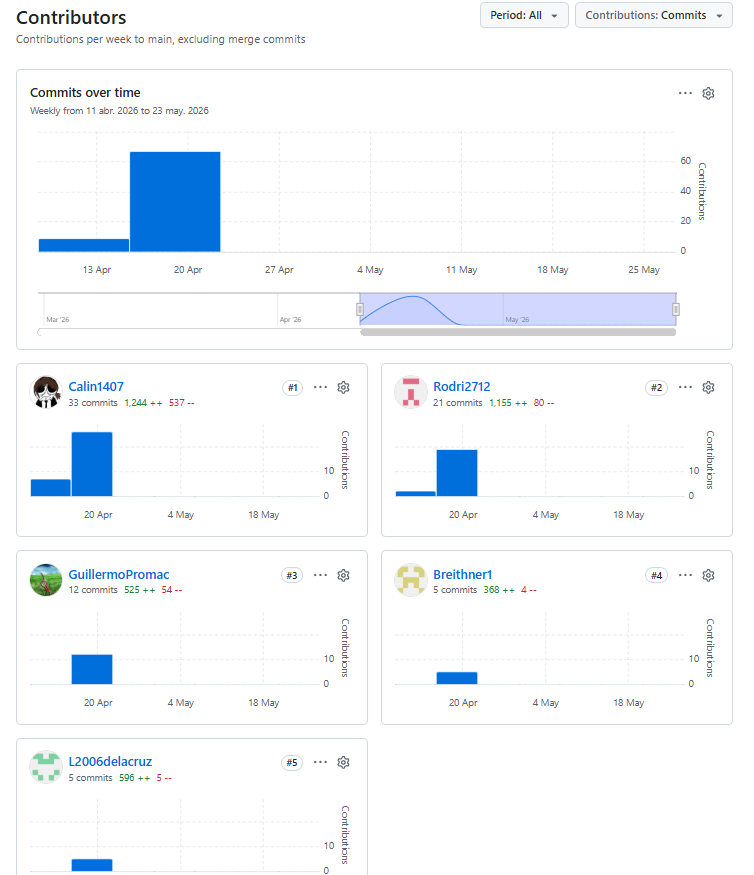
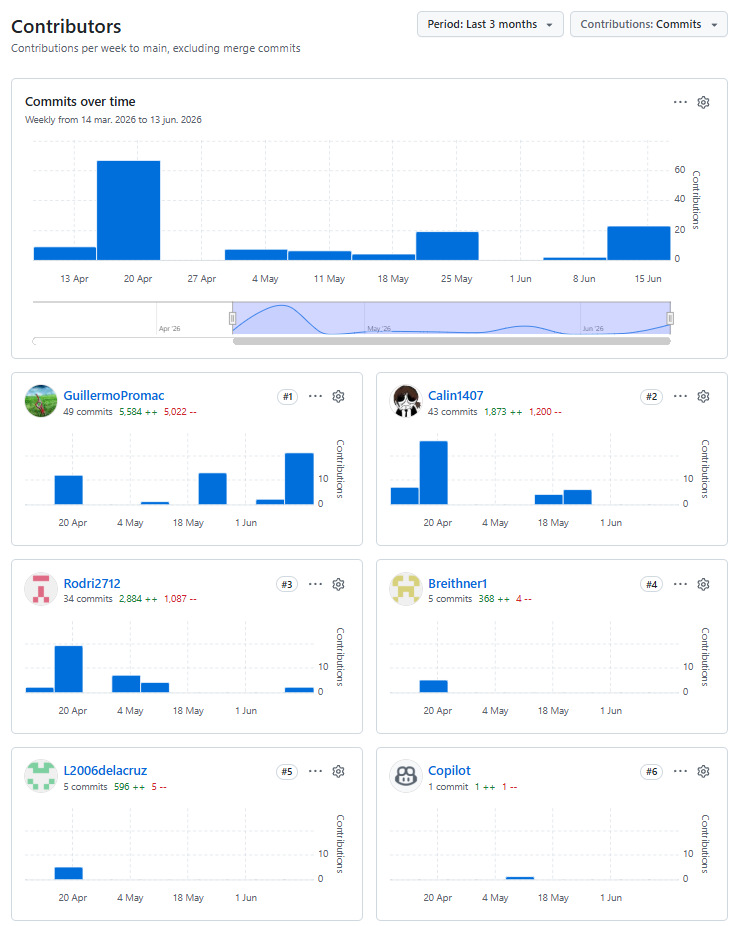
docs: add outcome av2.

diff --git a/README.md b/README.md
@@ -85,7 +85,7 @@
 
   <img src="assets/images/readme/Report-Ins.png" style="width: 450px;"/>
 
-  <p>Total de commits: 76</p>
+  <p>Total de commits: 136</p>
 
   <p>Autores contribuyentes:</p>
 
@@ -200,8 +200,7 @@
 
 ## Student Outcome 5
 
-<p>Criterio: La capacidad de funcionar efectivamente en un equipo cuyos miembros juntos proporcionan liderazgo, crean un entorno de colaboración e inclusivo, establecen objetivos, planifican tareas y cumplen objetivos.
-En el siguiente cuadro se describe las acciones realizadas y enunciados de conclusiones por parte del grupo, que permiten sustentar el haber alcanzado el logro del ABET – EAC - Student Outcome 5.</p>
+**Criterio:** Criterio: La capacidad de funcionar efectivamente en un equipo cuyos miembros juntos proporcionan liderazgo, crean un entorno de colaboración e inclusivo, establecen objetivos, planifican tareas y cumplen objetivos. En el siguiente cuadro se describe las acciones realizadas y enunciados de conclusiones por parte del grupo, que permiten sustentar el haber alcanzado el logro del ABET – EAC - Student Outcome 5.
 
 <table border="1" style="width: 100%; border-collapse: collapse;">
 <thead>
@@ -213,47 +212,48 @@ En el siguiente cuadro se describe las acciones realizadas y enunciados de concl
 </thead>
 <tbody>
     <tr>
-        <th style="padding: 30px;">Trabaja en equipo para proporcionar liderazgo enforma conjunta</th>
+        <th style="padding: 30px;">Trabaja en equipo para proporcionar liderazgo en forma conjunta</th>
         <th style="padding: 60px;">
-        Acuña de la Cruz, Luis Alfredo<br>Rol de developer, documentación de reuniones y configuraciones del software<br><br>
-        Aguilar Untiveros, Rodrigo Fabrizio<br>Rol de developer, colaboración en generación de stories y escenarios de usuarios<br><br>
-        Howard Robles, Guillermo Arturo<br>Rol de developer, análisis de competidores, needfinding y big picture event storming<br><br>
-        Perez Encarnacion, Breithner Rodolfo<br>Rol de developer, diseño UX de landing page y página web<br><br>
-        Retuerto Rodriguez, Jorge Manuel<br>Rol de product owner, descripción de producto y startup<br><br>
+            <strong>Retuerto Rodriguez, Jorge Manuel</strong><br>
+            <strong>TB1:</strong> Lideró el desarrollo de los módulos de IAM y Commercial Management en el frontend, implementando las vistas de autenticación (login, registro, recuperación de contraseña), la gestión de productos y pedidos, y la integración con los endpoints del backend. Coordinó la estructura de rutas y la lógica de estado global para estos módulos, asegurando la consistencia de la navegación y la experiencia de usuario.<br>
+            <strong>AV2:</strong> Lideró la implementación de la capa de infraestructura para IAM y Commercial en el backend, desarrollando los agregados <code>User</code>, <code>Product</code> y <code>Order</code>, los comandos y consultas correspondientes, y los controladores REST. Configuró la autenticación JWT y la autorización basada en roles, y aseguró la correcta integración con la base de datos mediante Entity Framework Core. Además, supervisó la implementación de los endpoints de pedidos y productos, validando la lógica de negocio y las reglas de integridad.<br><br>
+            <strong>Howard Robles, Guillermo Arturo</strong><br>
+            <strong>TB1:</strong> Lideró el desarrollo de los módulos de Monitoring y Analytics en el frontend, implementando el dashboard de monitoreo con indicadores en tiempo real, gráficos históricos, mapa de fertilidad y visualización de reportes analíticos. Integró las vistas de gestión de dispositivos y campos, y desarrolló los componentes para la selección de zonas y sensores, asegurando una experiencia fluida y responsiva.<br>
+            <strong>AV2:</strong> Lideró la implementación de los bounded contexts de Monitoring y Analytics en el backend, desarrollando los agregados <code>Field</code>, <code>Device</code> y <code>Report</code>, junto con sus value objects y comandos. Implementó los endpoints para la gestión de campos y dispositivos, y los filtros por tipo de suelo y estado. Además, desarrolló la lógica de generación de reportes estadísticos y aseguró la correcta persistencia de los datos en la base de datos, optimizando las consultas para el rendimiento.<br><br>
+            <strong>Perez Encarnacion, Breithner Rodolfo</strong><br>
+            <strong>TB1:</strong> Lideró el desarrollo de los módulos de Profile Management y Community Management en el frontend, implementando las vistas de gestión de perfiles agrícolas, la configuración de umbrales y la interacción con la comunidad (perfiles públicos, mural de comentarios y reseñas). Diseñó los componentes para la creación y edición de perfiles, y la visualización de calificaciones y comentarios de otros agricultores.<br>
+            <strong>AV2:</strong> Lideró la implementación de los bounded contexts de Profile y Community en el backend, desarrollando los agregados <code>Profile</code>, <code>CommunityProfile</code> y <code>Comment</code>, junto con sus value objects y comandos. Implementó los endpoints para la gestión de perfiles, comunidades y comentarios, incluyendo la lógica de reputación y visibilidad. Aseguró la integridad referencial entre los perfiles de usuario y los perfiles de comunidad, y validó las reglas de negocio para la publicación y moderación de comentarios.<br><br>
+            <strong>Aguilar Untiveros, Rodrigo Fabrizio</strong><br>
+            <strong>TB1:</strong> Lideró el desarrollo de los módulos de Notification Management y Stock Management en el frontend, implementando el sistema de notificaciones (lista de notificaciones, creación de alertas, marcado como leído) y la gestión de inventario de insumos (registro, edición, filtrado y descuento de productos). Desarrolló los componentes para la visualización de notificaciones en tiempo real y la integración con el panel de control.<br>
+            <strong>AV2:</strong> Lideró la implementación de los bounded contexts de Notification y Stock en el backend, desarrollando los agregados <code>Notification</code> e <code>Inventory</code>, junto con sus comandos y consultas. Implementó los endpoints para la creación, lectura y actualización de notificaciones, así como el marcado de leídas. También desarrolló la lógica de gestión de inventario, incluyendo la actualización de stock y la validación de cantidades. Aseguró la correcta persistencia de los datos y la integración con los módulos de perfil y monitoreo.<br><br>
         </th>
         <th style="padding: 30px;">
-        av1: Se definió la visión del producto y sus objetivos mediante la participación del Product Owner y el equipo de desarrollo.
-        Se elaboraron historias de usuario y escenarios, permitiendo establecer metas claras para el desarrollo.
-        Se realizó análisis de competidores y actividades de needfinding para comprender el problema y orientar las decisiones del equipo.
-        Se aplicó event storming para estructurar el flujo del sistema y alinear el entendimiento entre los integrantes.
-        Se diseñaron interfaces UX para la landing page y la aplicación, considerando la experiencia del usuario.
-        Se documentaron reuniones y acuerdos para asegurar la comunicación y seguimiento del progreso.
-        <br><br>
-        tb1: Durante el Sprint 2, el equipo consolidó un modelo de liderazgo compartido donde la toma de decisiones técnicas se realizó de forma conjunta. La capacidad de liderazgo se manifestó en la autogestión de los Bounded Contexts, asegurando que cada módulo funcional estuviera alineado con los objetivos del negocio y las metas del Sprint, garantizando una integración fluida entre los componentes desarrollados por cada miembro.  
+            <strong>av1:</strong> Se definió la visión del producto y sus objetivos mediante la participación del Product Owner y el equipo de desarrollo. Se elaboraron historias de usuario y escenarios, permitiendo establecer metas claras para el desarrollo. Se realizó análisis de competidores y actividades de needfinding para comprender el problema y orientar las decisiones del equipo. Se aplicó event storming para estructurar el flujo del sistema y alinear el entendimiento entre los integrantes. Se diseñaron interfaces UX para la landing page y la aplicación, considerando la experiencia del usuario. Se documentaron reuniones y acuerdos para asegurar la comunicación y seguimiento del progreso.<br><br>
+            <strong>tb1:</strong> Durante el Sprint 2, el equipo consolidó un modelo de liderazgo compartido donde la toma de decisiones técnicas se realizó de forma conjunta. La capacidad de liderazgo se manifestó en la autogestión de los Bounded Contexts, asegurando que cada módulo funcional estuviera alineado con los objetivos del negocio y las metas del Sprint, garantizando una integración fluida entre los componentes.<br><br>
+            <strong>AV2:</strong> El equipo consolidó un modelo de liderazgo distribuido donde cada líder de Bounded Context asumió la responsabilidad de coordinar tanto el frontend como el backend de su módulo, asegurando la coherencia técnica y funcional de la solución. La capacidad de liderazgo se manifestó en la organización de sprints internos, la asignación de tareas específicas y la resolución de conflictos técnicos, garantizando que cada módulo funcional estuviera alineado con los objetivos del negocio y las metas del hito AV2. Además, se promovió la colaboración entre líderes de diferentes módulos para resolver dependencias cruzadas, lo que permitió una integración fluida entre los componentes desarrollados por cada miembro.
         </th>
     </tr>
     <tr>
-        <th style="padding: 30px;">
-        Crea un entorno colaborativo e inclusivo, establece metas,planifica tareas y cumple objetivos
-        </th>
+        <th style="padding: 30px;">Crea un entorno colaborativo e inclusivo, establece metas, planifica tareas y cumple objetivos</th>
         <th style="padding: 60px;">
-        Acuña de la Cruz, Luis Alfredo<br>Trabajo siguiendo los 'conventional commits' y gitflow<br><br>
-        Aguilar Untiveros, Rodrigo Fabrizio<br>Cumplió de manera regular el uso de los 'conventional commits' y gitflow<br><br>
-        Howard Robles, Guillermo Arturo<br>Trabajo siguiendo los 'conventional commits' y gitflow<br><br>
-        Perez Encarnacion, Breithner Rodolfo<br>Trabajo siguiendo los 'conventional commits' y gitflow<br><br>
-        Retuerto Rodriguez, Jorge Manuel<br>Trabajo siguiendo los 'conventional commits' y gitflow<br><br>
+            <strong>Retuerto Rodriguez, Jorge Manuel</strong><br>
+            <strong>TB1:</strong> Trabajó siguiendo los 'conventional commits' y gitflow, participando activamente en las revisiones de código y asegurando la calidad del software. Actuó como enlace entre el equipo de frontend y backend para garantizar la correcta integración de los módulos de IAM y Comercial.<br>
+            <strong>AV2:</strong> Continuó aplicando las prácticas de conventional commits y gitflow, y supervisó la correcta integración de los endpoints de IAM y Comercial con el frontend, asegurando la coherencia de los datos y la seguridad de la autenticación.<br><br>
+            <strong>Howard Robles, Guillermo Arturo</strong><br>
+            <strong>TB1:</strong> Trabajó siguiendo los 'conventional commits' y gitflow, y colaboró en la documentación técnica y la integración continua. Fue responsable de la correcta conexión entre el dashboard de monitoreo y los endpoints de sensores y reportes, asegurando la coherencia de los datos mostrados en el frontend.<br>
+            <strong>AV2:</strong> Continuó aplicando las prácticas de conventional commits y gitflow, y supervisó la correcta integración de los endpoints de monitoreo y analíticas con el frontend, asegurando la precisión de los datos mostrados en el dashboard.<br><br>
+            <strong>Perez Encarnacion, Breithner Rodolfo</strong><br>
+            <strong>TB1:</strong> Trabajó siguiendo los 'conventional commits' y gitflow, y colaboró en la creación de los recursos y transformadores para la API. Garantizó que la información de perfiles y comunidad se reflejara correctamente en el frontend, facilitando la interacción de los agricultores.<br>
+            <strong>AV2:</strong> Continuó aplicando las prácticas de conventional commits y gitflow, y supervisó la correcta integración de los endpoints de perfiles y comunidad con el frontend, asegurando la consistencia de los datos de los agricultores.<br><br>
+            <strong>Aguilar Untiveros, Rodrigo Fabrizio</strong><br>
+            <strong>TB1:</strong> Trabajó siguiendo los 'conventional commits' y gitflow, y se encargó de la correcta integración de las notificaciones y el inventario en ambos lados, asegurando que los datos se sincronicen adecuadamente entre frontend y backend.<br>
+            <strong>AV2:</strong> Continuó aplicando las prácticas de conventional commits y gitflow, y supervisó la correcta integración de los endpoints de notificaciones e inventario con el frontend, asegurando la sincronización de datos en tiempo real.<br><br>
         </th>
         <th style="padding: 30px;">
-        av1: Se estableció un flujo de trabajo dentro de GitHub: una organización, para la creación de las ramas nos hemos basado en Gitflow, 
-        lo que permitió integrar cambios de forma ordenada y sin conflictos mayores. El uso de 'conventional commits' facilitó la trazabilidad 
-        de funcionalidades y la generación automática de changelogs. Se definieron metas semanales alcanzables mediante reuniones de planificación, 
-        respetando los roles y promoviendo la participación equitativa. Se fomentó un entorno inclusivo donde todos los miembros 
-        expresaron sus ideas durante las retrospectivas. El equipo cumplió con los objetivos del hito, entregando las funcionalidades 
-        acordadas dentro del plazo establecido.
-        <br><br>
-        tb1: El equipo fomentó un entorno inclusivo mediante la rotación de responsabilidades técnicas y el apoyo mutuo en las fases de despliegue. Se establecieron metas específicas para el Sprint 2 mediante un Sprint Backlog detallado, lo que permitió una planificación rigurosa de las tareas de codificación y documentación. El cumplimiento de los objetivos se evidenció en la entrega de un producto funcional desplegado en múltiples plataformas y una documentación técnica que refleja fielmente la colaboración y el esfuerzo colectivo por alcanzar los estándares de calidad exigidos.
+            <strong>AV1:</strong> Se estableció un flujo de trabajo dentro de GitHub: una organización, para la creación de las ramas nos hemos basado en Gitflow, lo que permitió integrar cambios de forma ordenada y sin conflictos mayores. El uso de 'conventional commits' facilitó la trazabilidad de funcionalidades y la generación automática de changelogs. Se definieron metas semanales alcanzables mediante reuniones de planificación, respetando los roles y promoviendo la participación equitativa. Se fomentó un entorno inclusivo donde todos los miembros expresaron sus ideas durante las retrospectivas. El equipo cumplió con los objetivos del hito, entregando las funcionalidades acordadas dentro del plazo establecido.<br><br>
+            <strong>TB1:</strong> El equipo fomentó un entorno inclusivo mediante la rotación de responsabilidades técnicas y el apoyo mutuo en las fases de despliegue. Se establecieron metas específicas para el Sprint 2 mediante un Sprint Backlog detallado, lo que permitió una planificación rigurosa de las tareas de codificación y documentación. El cumplimiento de los objetivos se evidenció en la entrega de un producto funcional desplegado en múltiples plataformas y una documentación técnica que refleja fielmente la colaboración y el esfuerzo colectivo por alcanzar los estándares de calidad exigidos.<br><br>
+            <strong>AV2:</strong> El equipo fomentó un entorno colaborativo e inclusivo mediante la organización de reuniones diarias de sincronización y la rotación de responsabilidades en las revisiones de código. Se establecieron metas específicas para el hito AV2 mediante un Sprint Backlog detallado que priorizó las funcionalidades críticas del sistema (monitoreo, autenticación, comunidad, notificaciones, perfiles, inventario, analíticas y comercio). Se utilizaron herramientas como GitHub Projects para el seguimiento de tareas y se aplicaron prácticas de integración continua (CI) para validar los cambios de forma automática. El cumplimiento de los objetivos se evidenció en la entrega de un producto funcional con todos los bounded contexts implementados y desplegados en entornos de prueba, junto con una documentación técnica que refleja fielmente la colaboración y el esfuerzo colectivo por alcanzar los estándares de calidad exigidos.
         </th>
     </tr>
 </tbody>
 </table>
-